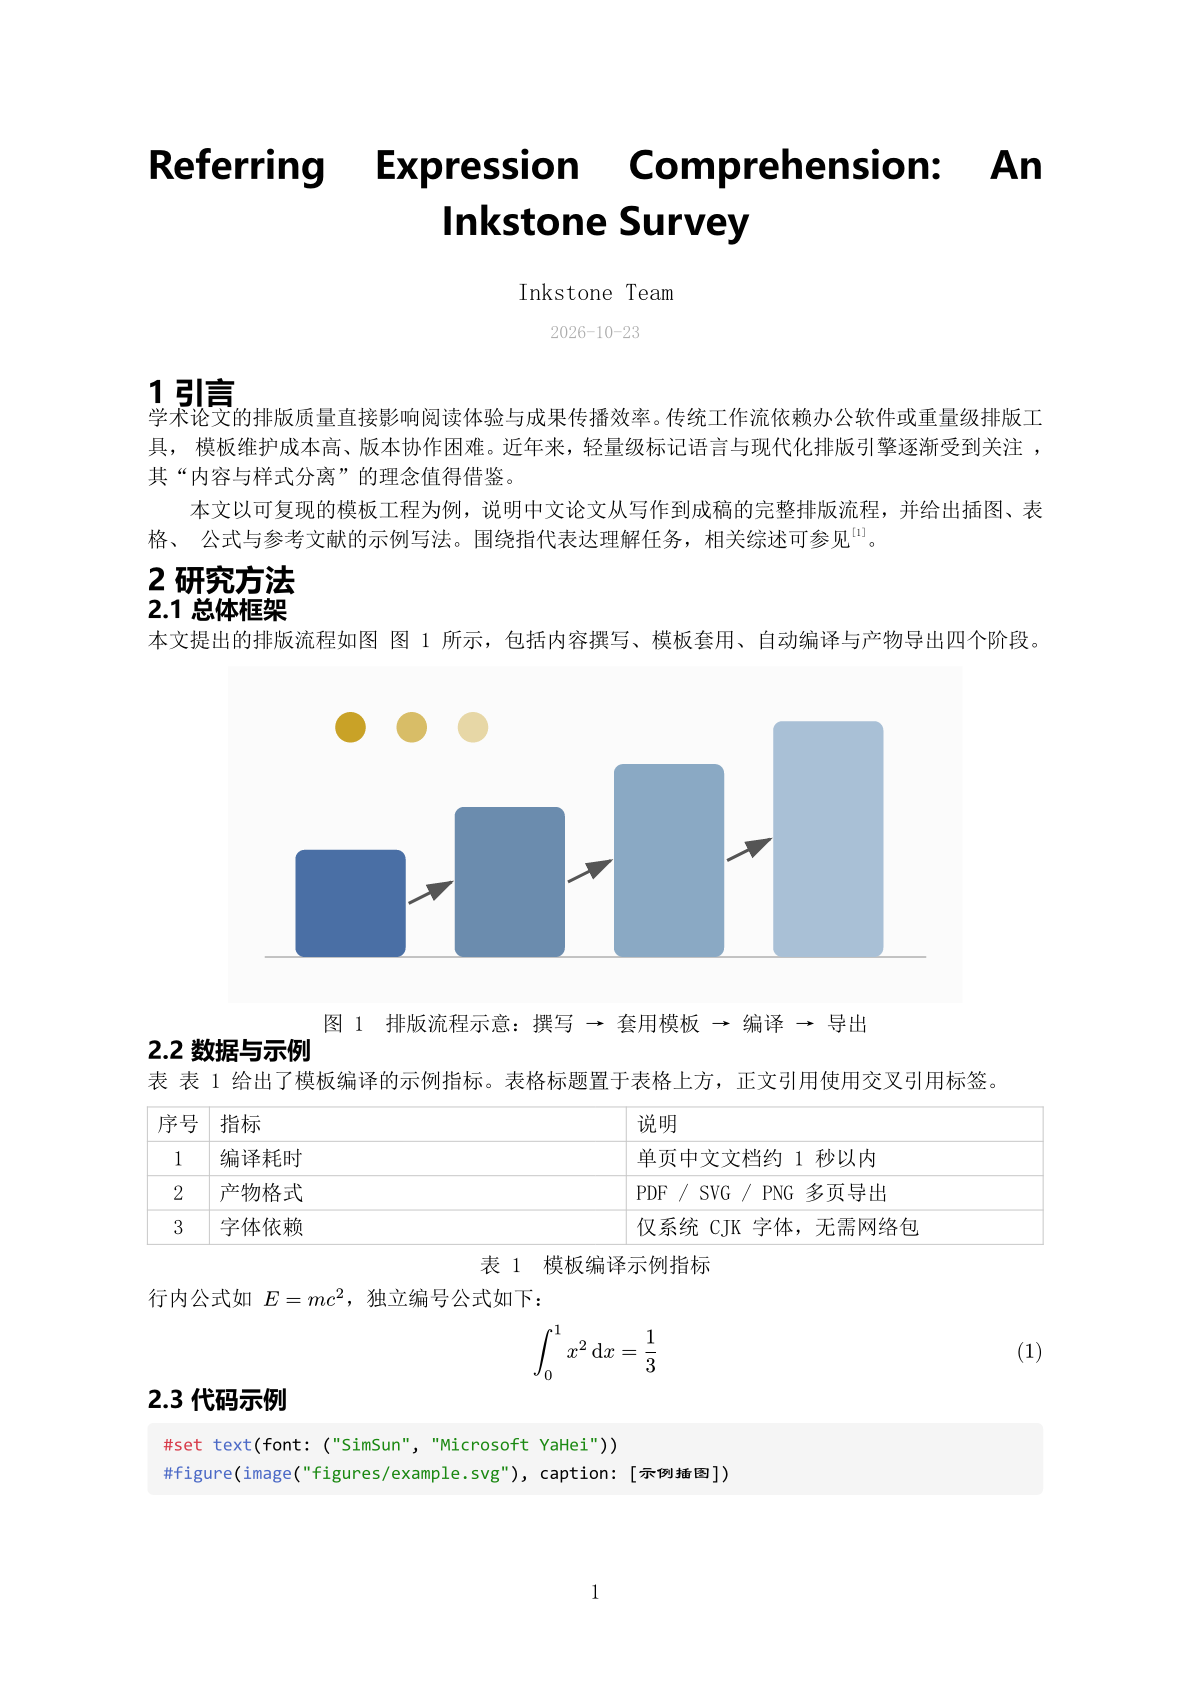
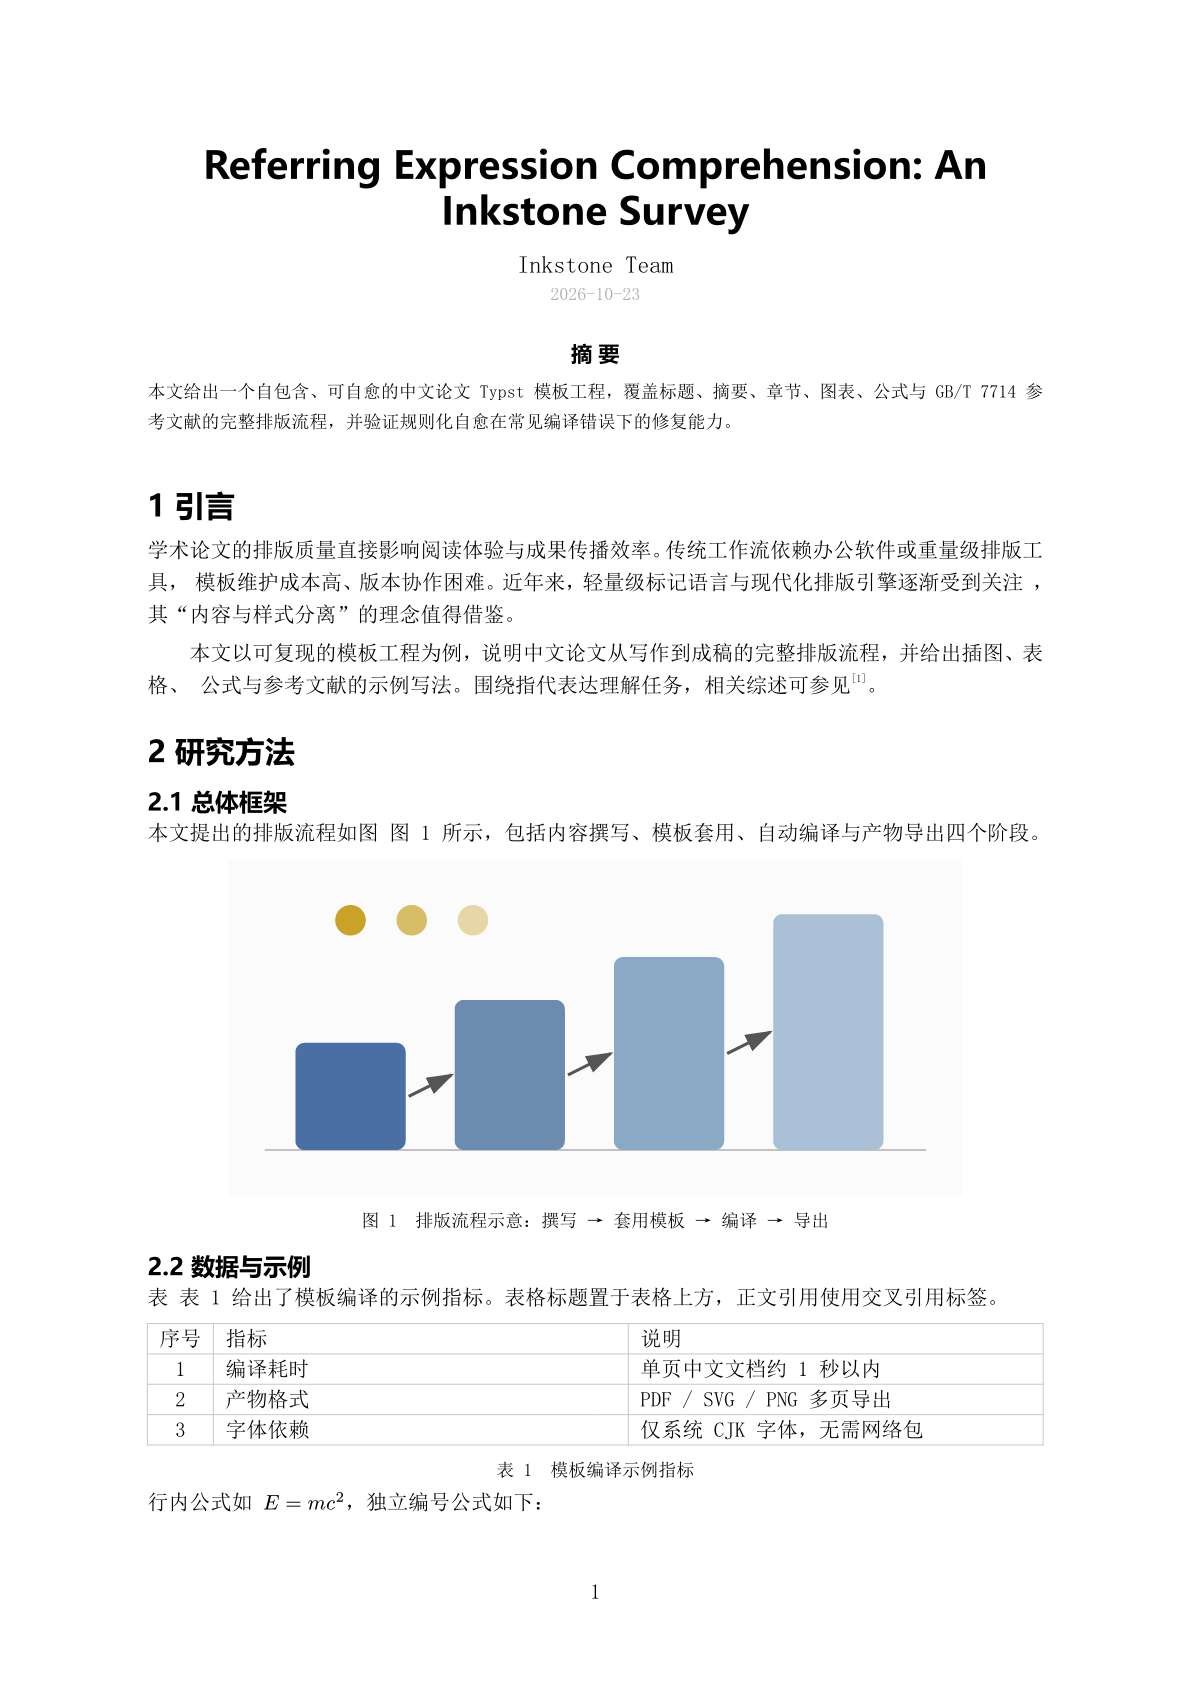
fix(typst): 修复标题贴连、英文标题两端对齐拉散与幻灯片封面碰撞
- paper/report：标题间距改用 block(above/below)，不再用会在块边界折叠的 weak v()；正文行距/段距加大；表格内边距、图表与参考文献间距调优；标题区关闭两端对齐、收紧行距。
- report：二级标题编号 3.1. 改为 3.1。
- slides：封面标题按长度自适应字号，长标题不再压到分隔线。
- poster：标题区关闭两端对齐，长标题自适应字号并保持单页。
- 重新生成 README 预览图；4 模板真实编译、全部 182 项测试通过。

Changed region(s): [[0.1243, 0.0926, 0.8699, 0.8955], [0.7767, 0.7411, 0.8077, 0.772]]

diff --git a/CHANGELOG.md b/CHANGELOG.md
@@ -1,5 +1,17 @@
 # Changelog
 
+## v0.1.1 — 2026-10-23
+
+排版修复：解决标题与正文贴连、英文标题被两端对齐拉散、幻灯片封面长标题与分隔线相撞的问题。
+
+- `paper-zh` / `report-zh`：标题间距改用 `block(above:, below:)`（不再使用会在块边界折叠的
+  `weak v()`）；正文行距与段距加大；表格内边距、图表间距、参考文献行距统一调优；
+  标题区关闭两端对齐并收紧行距，避免英文标题单词间距被拉开。
+- `report-zh`：二级标题编号从 `3.1.` 改为 `3.1`。
+- `slides-zh`：封面标题按长度自适应字号，非 weak 间距，长标题不再压到分隔线/作者区。
+- `poster-zh`：标题区关闭两端对齐，长标题按长度自适应字号（保持单页）。
+- 4 套模板重新真实编译验证；`node scripts/test-typst.mjs` 46 项通过。
+
 ## v0.1.0 — 2026-10-23
 
 首个可用版本：一个 bundle 四个插件。
